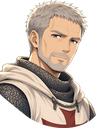
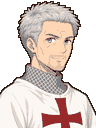
Art test round 5: Renaud FFTA2-face portrait, veteran chibi sprite, palette/outline cleanup; ?art=test uses v5

diff --git a/docs/art-test/README.md b/docs/art-test/README.md
@@ -44,3 +44,15 @@ Files: `renaud-portrait-hires.png` plus `-96x128` and `-64x90` (white background
 - Sprite a (rejected, about 5 heads tall; renaud-full.png as reference): "single pixel-art isometric battle sprite, chibi 2.5-3 heads, three-quarter front facing down-left, 1 px dark outline, ~3 shades per material, white surcoat with red cross, kite shield, longsword, 8x nearest-neighbour, flat magenta background."
 - Sprite front (pick; sprite a as reference): "super-deformed CHIBI, only 2.5 heads tall, oversized head ~40% of height, grey spiky hair, tiny dot eyes, stubby body, chunky boots; same surcoat, shield, sword; facing down-left; 1 px outline, 3 shades per color; magenta background."
 - Sprite back (front as reference): "the exact same chibi sprite seen from behind, three-quarter back view facing up-left; magenta background."
+
+# Round 5 (v5/) — style test only (Renaud, building on round 4)
+
+5 generations. The `?art=test` build now uses the v5 assets; the default build is unchanged. The comparison sheet is `v5/compare.png` (top row round 4, bottom row round 5: portrait, front sprite, back sprite, 32px sprite).
+
+**Post-processing (code):** the magenta or white background is removed; images are downscaled with Lanczos; the palette is reduced with median-cut (20 colors for the 128px sprite, 16 at 32px, 24 for the portraits); and a crisp 1px dark-brown (#341E14) outline is added around the silhouette.
+
+- Portrait a (rejected; round 4 portrait as reference, so it stayed realistic with an oval cut): "DS tactics RPG dialogue portrait, strongly stylized anime: big bright almond eyes, tiny nose, slim pointed jaw; grey hair, simple stubble strokes; flat chainmail bands; rectangular crop, no oval; 3 tone bands; white background."
+- Portrait b (no reference; this is what broke the realism): "Anime JRPG dialogue portrait in the style of Final Fantasy Tactics A2 / DS-era Square Enix portraits: youthful bishounen face, very large glossy almond eyes, tiny nose, very slim V jaw; veteran Templar, spiky silver-grey hair with anime highlights, faint stubble, stern brow, kind smile; white surcoat with bold red cross, chainmail coif as flat grey diamond pattern; rectangular framing edge to edge; thin dark-brown outline, 3-tone cel shading; white background."
+- Portrait c (pick; b as reference): "edit: add clearly visible grey stubble along jaw, chin and lip, a small cheek scar, heavier brows, faint under-eye lines so he reads in his forties; keep the big anime eyes and slim jaw; one red cross centered."
+- Sprite front (pick; round 4 front as reference): "same chibi sprite and proportions, but an older veteran: grey stubble, furrowed brow, age lines, narrower eyes; simplified: flat color areas, plain chainmail, one belt, plain shield; thick dark-brown outline, 3 shades per material; magenta background."
+- Sprite back (pick; v5 front as reference): "exact same sprite seen from behind, three-quarter back view facing up-left; magenta background."
